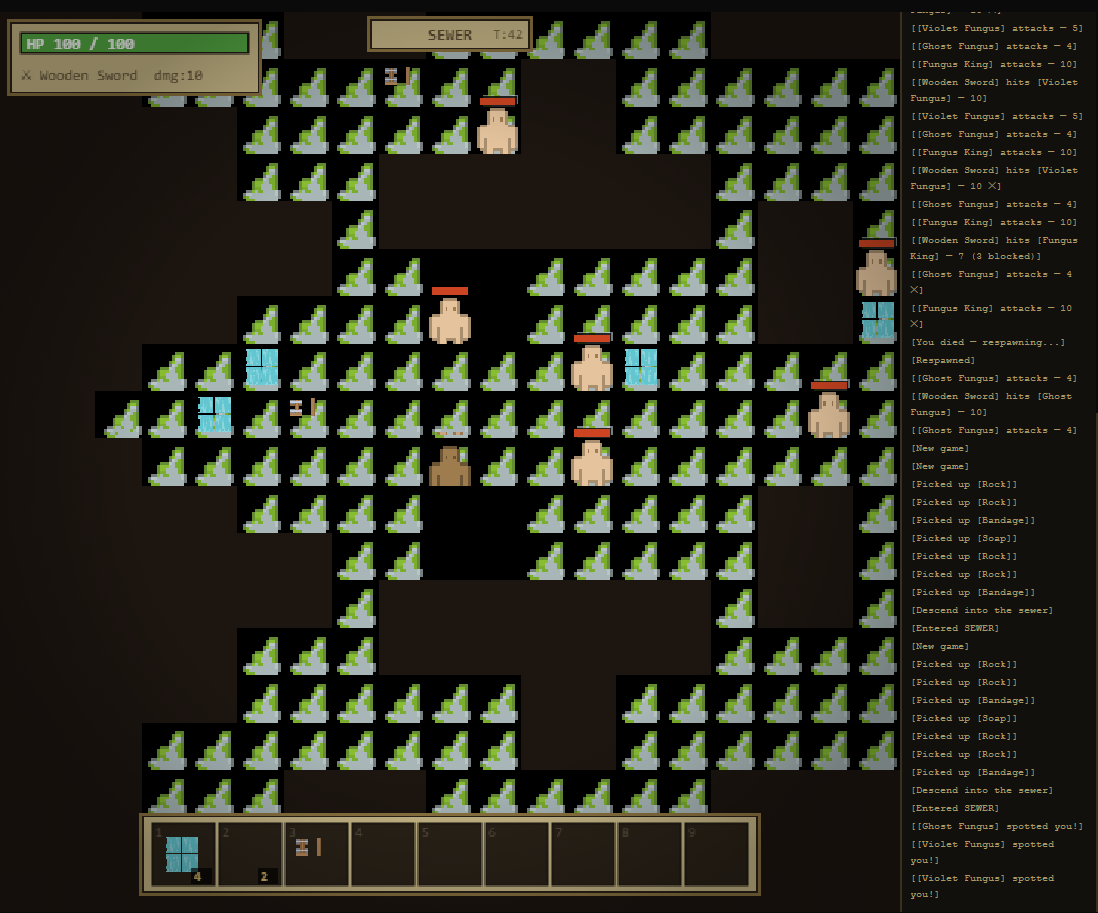
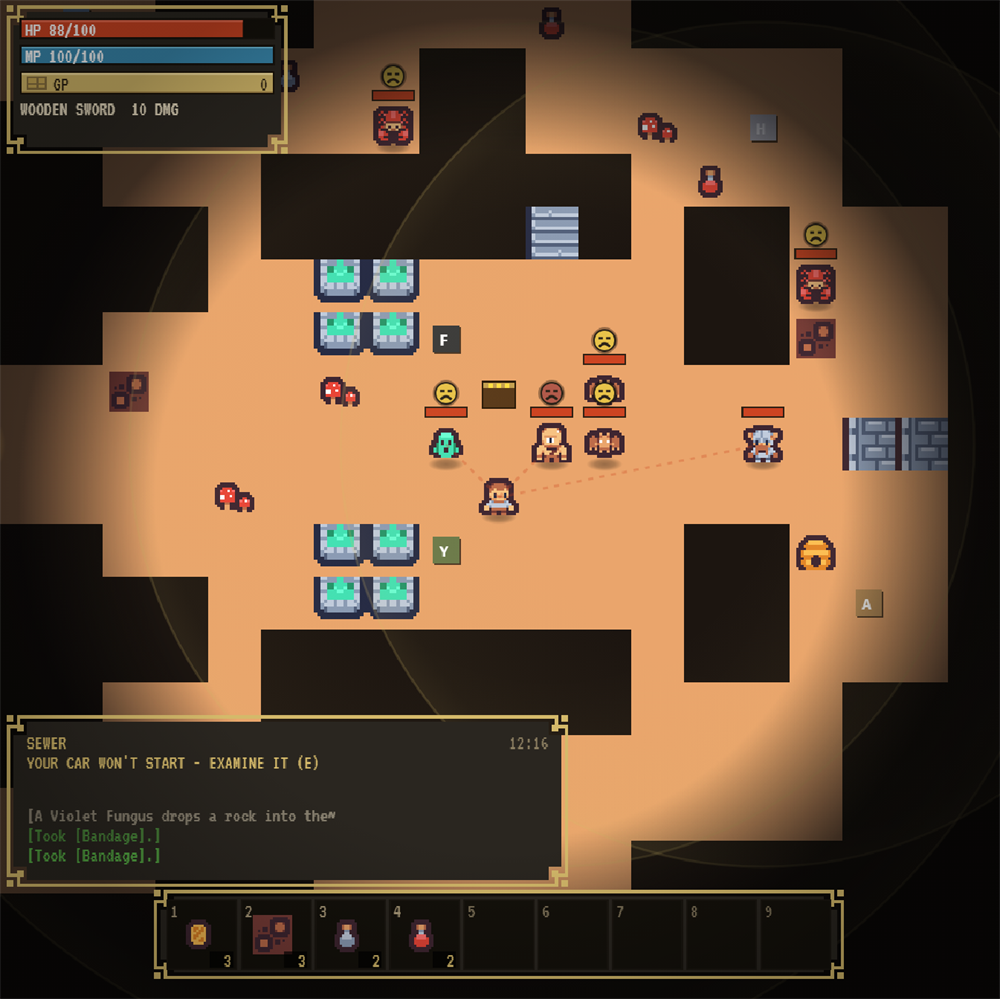
Update Explore screenshots; downscale + cache-bust game images
- Replace Violencetown and Clown City screenshots; add the three
  Pain Mountain screenshots (previously 404 -> placeholder fallbacks).
- Downscale oversized exports to 1000px max width where it reduced
  size: painmountain-1 3403x2070 949KB -> 211KB; violencetown -> 833KB;
  painmountain-3 -> 715KB. Kept originals where re-encoding wasn't
  smaller (clowncity, painmountain-2).
- Add ?v=2 cache-buster to all five asset <img> srcs so returning
  visitors and Cloudflare's edge fetch the new images.

diff --git a/index.html b/index.html
@@ -595,7 +595,7 @@
 
                 <a class="project-badge" href="https://violencetown.russelldangerr.com/game/" target="_blank" rel="noopener">
                   <div class="badge-media">
-                    <img src="assets/violencetown.png" alt="Violencetown sewer demo gameplay" loading="lazy" onerror="this.parentElement.classList.add('badge-media--placeholder'); this.replaceWith(Object.assign(document.createElement('span'),{textContent:'Screenshot coming'}));">
+                    <img src="assets/violencetown.png?v=2" alt="Violencetown sewer demo gameplay" loading="lazy" onerror="this.parentElement.classList.add('badge-media--placeholder'); this.replaceWith(Object.assign(document.createElement('span'),{textContent:'Screenshot coming'}));">
                   </div>
                   <div class="project-badge-head">
                     <h3>Violencetown</h3>
@@ -615,7 +615,7 @@
 
                 <a class="project-badge" href="https://clowncity.russelldangerr.com" target="_blank" rel="noopener">
                   <div class="badge-media">
-                    <img src="assets/clowncity.png" alt="Clown City platformer gameplay" loading="lazy" onerror="this.parentElement.classList.add('badge-media--placeholder'); this.replaceWith(Object.assign(document.createElement('span'),{textContent:'Screenshot coming'}));">
+                    <img src="assets/clowncity.png?v=2" alt="Clown City platformer gameplay" loading="lazy" onerror="this.parentElement.classList.add('badge-media--placeholder'); this.replaceWith(Object.assign(document.createElement('span'),{textContent:'Screenshot coming'}));">
                   </div>
                   <div class="project-badge-head">
                     <h3>Clown City</h3>
@@ -640,13 +640,13 @@
               <article class="project-badge project-badge--wide">
                 <div class="pm-shots">
                   <div class="pm-shot">
-                    <img src="assets/painmountain-1.png" alt="Pain Mountain screenshot 1" loading="lazy" onerror="this.parentElement.classList.add('pm-shot--placeholder'); this.replaceWith(Object.assign(document.createElement('span'),{textContent:'Screenshot 1'}));">
+                    <img src="assets/painmountain-1.png?v=2" alt="Pain Mountain screenshot 1" loading="lazy" onerror="this.parentElement.classList.add('pm-shot--placeholder'); this.replaceWith(Object.assign(document.createElement('span'),{textContent:'Screenshot 1'}));">
                   </div>
                   <div class="pm-shot">
-                    <img src="assets/painmountain-2.png" alt="Pain Mountain screenshot 2" loading="lazy" onerror="this.parentElement.classList.add('pm-shot--placeholder'); this.replaceWith(Object.assign(document.createElement('span'),{textContent:'Screenshot 2'}));">
+                    <img src="assets/painmountain-2.png?v=2" alt="Pain Mountain screenshot 2" loading="lazy" onerror="this.parentElement.classList.add('pm-shot--placeholder'); this.replaceWith(Object.assign(document.createElement('span'),{textContent:'Screenshot 2'}));">
                   </div>
                   <div class="pm-shot">
-                    <img src="assets/painmountain-3.png" alt="Pain Mountain screenshot 3" loading="lazy" onerror="this.parentElement.classList.add('pm-shot--placeholder'); this.replaceWith(Object.assign(document.createElement('span'),{textContent:'Screenshot 3'}));">
+                    <img src="assets/painmountain-3.png?v=2" alt="Pain Mountain screenshot 3" loading="lazy" onerror="this.parentElement.classList.add('pm-shot--placeholder'); this.replaceWith(Object.assign(document.createElement('span'),{textContent:'Screenshot 3'}));">
                   </div>
                 </div>
                 <div class="project-badge-head">
